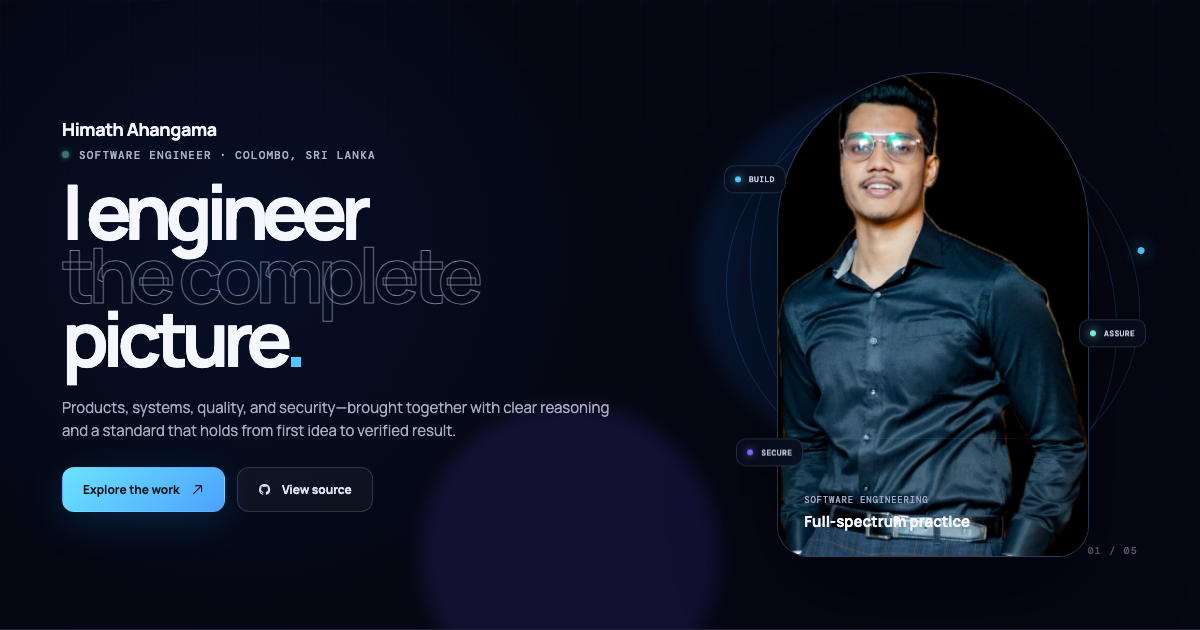
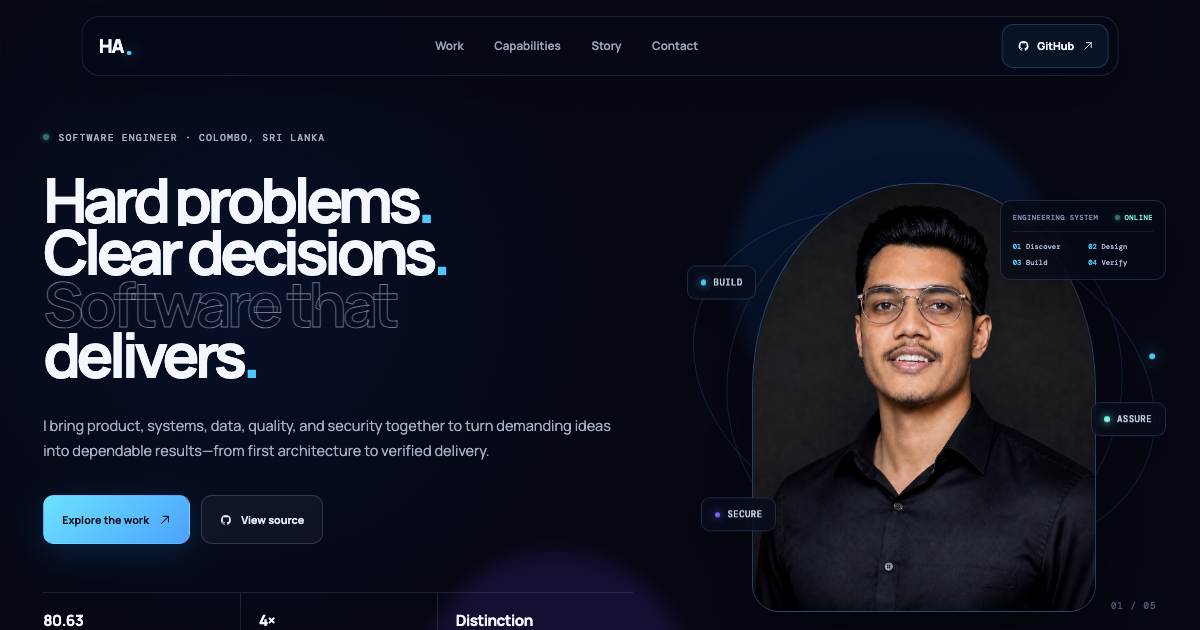
feat: sharpen hero message and portrait

diff --git a/src/styles.css b/src/styles.css
@@ -94,7 +94,7 @@ svg { width: 1.1em; height: 1.1em; fill: none; stroke: currentColor; stroke-widt
 .hero-eyebrow { display: flex; align-items: center; gap: 10px; margin-bottom: 34px; }
 .hero-eyebrow span { width: 7px; height: 7px; border-radius: 50%; background: var(--cyan); box-shadow: 0 0 18px var(--cyan); animation: pulse 2s ease-in-out infinite; }
 @keyframes pulse { 50% { opacity: .42; box-shadow: 0 0 5px var(--cyan); } }
-.hero h1 { margin: 0; font-size: clamp(68px, 7.6vw, 128px); line-height: .84; letter-spacing: -.082em; }
+.hero h1 { margin: 0; font-size: clamp(62px, 5.7vw, 92px); line-height: .84; letter-spacing: -.075em; }
 .hero-line { display: block; overflow: hidden; }
 .hero-line i { display: block; font-style: normal; transform: translateY(112%); }
 .hero-line.outline i { color: transparent; -webkit-text-stroke: 1px rgba(220,229,255,.5); }
@@ -126,15 +126,10 @@ svg { width: 1.1em; height: 1.1em; fill: none; stroke: currentColor; stroke-widt
 .achievement-strip span { color: #778198; font: 500 9px 'DM Mono', monospace; line-height: 1.4; letter-spacing: .06em; text-transform: uppercase; }
 
 .hero-visual { position: relative; z-index: 2; justify-self: end; width: min(570px, 43vw); margin-left: 34px; transform: translate(calc(var(--pointer-x) * -4px), calc(var(--pointer-y) * -4px)); transition: transform .15s linear; }
-.portrait-frame { position: relative; z-index: 3; width: 77%; margin: 0 auto; overflow: hidden; border: 1px solid rgba(111,195,255,.26); border-radius: 180px 180px 36px 36px; background: linear-gradient(160deg, #101b35, #070914 68%); box-shadow: 0 36px 100px rgba(0,0,0,.48), inset 0 0 60px rgba(54,122,255,.08); }
-.portrait-frame::after { position: absolute; inset: 0; content: ''; background: linear-gradient(to top, rgba(3,5,14,.82), transparent 34%); pointer-events: none; }
-.portrait-frame img { position: relative; z-index: 1; width: 100%; aspect-ratio: .64; object-fit: cover; object-position: 50% 0; filter: saturate(.82) contrast(1.06); }
-.portrait-glow { position: absolute; z-index: 0; top: 8%; left: 10%; width: 80%; aspect-ratio: 1; border-radius: 50%; background: rgba(35,153,255,.24); filter: blur(36px); }
-.scan-line { position: absolute; z-index: 4; right: 0; left: 0; top: 10%; height: 1px; opacity: .4; background: linear-gradient(90deg, transparent, var(--blue), transparent); box-shadow: 0 0 20px var(--blue); animation: scan 5s ease-in-out infinite; }
-@keyframes scan { 50% { top: 78%; opacity: .12; } }
-.portrait-label { position: absolute; z-index: 5; right: 26px; bottom: 24px; left: 26px; display: flex; flex-direction: column; gap: 5px; }
-.portrait-label span { color: #98a7c5; font: 500 9px 'DM Mono', monospace; letter-spacing: .09em; text-transform: uppercase; }
-.portrait-label strong { font-size: 15px; }
+.portrait-frame { position: relative; z-index: 3; width: 74%; margin: 0 auto; overflow: hidden; border: 1px solid rgba(111,195,255,.3); border-radius: 48% 48% 30px 30px; background: linear-gradient(160deg, #101b35, #070914 68%); box-shadow: 0 36px 100px rgba(0,0,0,.48), inset 0 0 60px rgba(54,122,255,.08); }
+.portrait-frame::after { position: absolute; inset: 0; content: ''; background: linear-gradient(to top, rgba(3,5,14,.34), transparent 24%); pointer-events: none; }
+.portrait-frame img { position: relative; z-index: 1; width: 100%; aspect-ratio: .8; object-fit: cover; object-position: 50% 44%; filter: saturate(.94) contrast(1.025); }
+.portrait-glow { position: absolute; z-index: 0; top: 6%; left: 8%; width: 84%; aspect-ratio: 1; border-radius: 50%; background: rgba(35,153,255,.18); filter: blur(40px); }
 .portrait-orbit { position: absolute; z-index: 1; border: 1px solid rgba(85,160,255,.19); border-radius: 50%; }
 .orbit-a { inset: 8% -1% 15%; transform: rotate(18deg); }
 .orbit-b { inset: 2% 7% 9%; transform: rotate(-24deg); }
@@ -273,7 +268,7 @@ svg { width: 1.1em; height: 1.1em; fill: none; stroke: currentColor; stroke-widt
 .story-intro > p { margin: 0; color: var(--muted); font-size: 16px; line-height: 1.8; }
 .story-grid { display: grid; grid-template-columns: minmax(320px, .6fr) minmax(0, 1.4fr); gap: 70px; margin-top: 100px; }
 .story-portrait { position: relative; align-self: start; overflow: hidden; border: 1px solid var(--line); border-radius: 18px; background: #0a0d1b; }
-.story-portrait img { width: 100%; max-height: 650px; object-fit: cover; object-position: 50% 15%; filter: grayscale(.25) saturate(.7); }
+.story-portrait img { width: 100%; aspect-ratio: 1; max-height: 650px; object-fit: cover; object-position: 50% 42%; filter: saturate(.88) contrast(1.03); }
 .story-portrait::after { position: absolute; inset: 0; content: ''; background: linear-gradient(to top, rgba(4,6,15,.94), transparent 45%); }
 .story-portrait > div { position: absolute; z-index: 2; right: 24px; bottom: 22px; left: 24px; display: flex; flex-direction: column; gap: 5px; }
 .story-portrait span { color: var(--blue); font: 500 9px 'DM Mono', monospace; letter-spacing: .08em; text-transform: uppercase; }
@@ -313,7 +308,7 @@ svg { width: 1.1em; height: 1.1em; fill: none; stroke: currentColor; stroke-widt
 @media (max-width: 1180px) {
   :root { --page: calc(100vw - 56px); }
   .hero { grid-template-columns: minmax(0, 1fr) minmax(350px, .75fr); padding-right: 32px; padding-left: 32px; }
-  .hero h1 { font-size: clamp(66px, 8vw, 104px); }
+  .hero h1 { font-size: clamp(60px, 5.9vw, 88px); }
   .hero-visual { width: min(470px, 40vw); }
   .section, .contact-section { padding-right: 32px; padding-left: 32px; }
   .section-heading { grid-template-columns: 180px minmax(0, 1fr); }
@@ -338,9 +333,9 @@ svg { width: 1.1em; height: 1.1em; fill: none; stroke: currentColor; stroke-widt
   .menu-toggle { display: block; }
   .hero { grid-template-columns: 1fr; min-height: auto; padding: 140px 24px 72px; }
   .hero-copy { max-width: 760px; }
-  .hero h1 { font-size: clamp(64px, 13vw, 100px); }
+  .hero h1 { font-size: clamp(54px, 8.7vw, 76px); }
   .hero-visual { justify-self: center; width: min(560px, 86vw); margin: 84px 0 30px; }
-  .portrait-frame { width: 72%; }
+  .portrait-frame { width: 74%; }
   .scroll-cue { display: none; }
   .section, .contact-section { padding: 110px 24px; }
   .section-heading, .story-intro { grid-template-columns: 1fr; gap: 24px; }
@@ -378,7 +373,7 @@ svg { width: 1.1em; height: 1.1em; fill: none; stroke: currentColor; stroke-widt
   .menu-toggle { width: 42px; height: 42px; }
   .hero { padding-top: 126px; }
   .hero-eyebrow { margin-bottom: 26px; font-size: 9px; }
-  .hero h1 { font-size: clamp(56px, 17.5vw, 86px); line-height: .88; }
+  .hero h1 { font-size: clamp(43px, 11.8vw, 56px); line-height: .9; }
   .hero-lead { margin-top: 28px; font-size: 15px; }
   .hero-actions { align-items: stretch; }
   .hero-actions .button { flex: 1 1 100%; }
@@ -386,7 +381,7 @@ svg { width: 1.1em; height: 1.1em; fill: none; stroke: currentColor; stroke-widt
   .achievement-strip div { padding: 15px 0; }
   .achievement-strip div + div { padding-left: 0; border-top: 1px solid var(--line); border-left: 0; }
   .hero-visual { width: 100%; margin-top: 64px; }
-  .portrait-frame { width: 78%; border-radius: 120px 120px 28px 28px; }
+  .portrait-frame { width: 82%; border-radius: 48% 48% 24px 24px; }
   .floating-chip { padding: 9px 10px; font-size: 8px; }
   .chip-build { left: 0; }
   .chip-assure { right: 0; }

diff --git a/src/App.tsx b/src/App.tsx
@@ -228,7 +228,7 @@ function App() {
           <span>Build deliberately.</span>
           <span>Verify honestly.</span>
         </div>
-        <div className="intro-signature"><div className="intro-mark">HA<span>.</span></div><p>Engineering the complete picture</p></div>
+        <div className="intro-signature"><div className="intro-mark">HA<span>.</span></div><p>Clarity · evidence · delivery</p></div>
         <div className="intro-progress"><i /><span>00</span><b>100</b></div>
       </div>
       <div className="cursor-core" aria-hidden="true" />
@@ -266,13 +266,14 @@ function App() {
           <div className="hero-orb orb-two" aria-hidden="true" />
           <div className="hero-copy">
             <div className="eyebrow hero-eyebrow"><span /> Software engineer · Colombo, Sri Lanka</div>
-            <h1 aria-label="I engineer the complete picture.">
-              <span className="hero-line"><i>I engineer</i></span>
-              <span className="hero-line outline"><i>the complete</i></span>
-              <span className="hero-line"><i>picture<span className="accent-dot">.</span></i></span>
+            <h1 aria-label="Hard problems. Clear decisions. Software that delivers.">
+              <span className="hero-line"><i>Hard problems<span className="accent-dot">.</span></i></span>
+              <span className="hero-line"><i>Clear decisions<span className="accent-dot">.</span></i></span>
+              <span className="hero-line outline"><i>Software that</i></span>
+              <span className="hero-line"><i>delivers<span className="accent-dot">.</span></i></span>
             </h1>
             <p className="hero-lead">
-              Products, systems, quality, and security—brought together with clear reasoning and a standard that holds from first idea to verified result.
+              I bring product, systems, data, quality, and security together to turn demanding ideas into dependable results—from first architecture to verified delivery.
             </p>
             <div className="hero-actions">
               <a className="button button-primary" data-magnetic href="#work">Explore the work <ArrowIcon /></a>
@@ -291,8 +292,6 @@ function App() {
             <div className="portrait-frame">
               <div className="portrait-glow" aria-hidden="true" />
               <img src="/assets/himath-ahangama.jpg" alt="Himath Ahangama" />
-              <div className="scan-line" aria-hidden="true" />
-              <div className="portrait-label"><span>Software engineering</span><strong>Full-spectrum practice</strong></div>
             </div>
             <div className="floating-chip chip-build"><i /> Build</div>
             <div className="floating-chip chip-assure"><i /> Assure</div>

diff --git a/index.html b/index.html
@@ -4,10 +4,10 @@
     <meta charset="UTF-8" />
     <meta name="viewport" content="width=device-width, initial-scale=1.0" />
     <meta name="theme-color" content="#050713" />
-    <meta name="description" content="Himath Ahangama — software engineer building thoughtful products, dependable systems, and verified solutions across the stack." />
+    <meta name="description" content="Himath Ahangama — software engineer turning hard problems into clear decisions and dependable, verified software." />
     <meta property="og:type" content="website" />
     <meta property="og:title" content="Himath Ahangama — Software Engineer" />
-    <meta property="og:description" content="Products, systems, quality, and security — engineered as one complete picture." />
+    <meta property="og:description" content="Hard problems. Clear decisions. Software that delivers." />
     <meta property="og:url" content="https://himath2002.github.io/" />
     <meta property="og:image" content="https://himath2002.github.io/assets/portfolio-preview.png" />
     <meta name="twitter:card" content="summary_large_image" />
